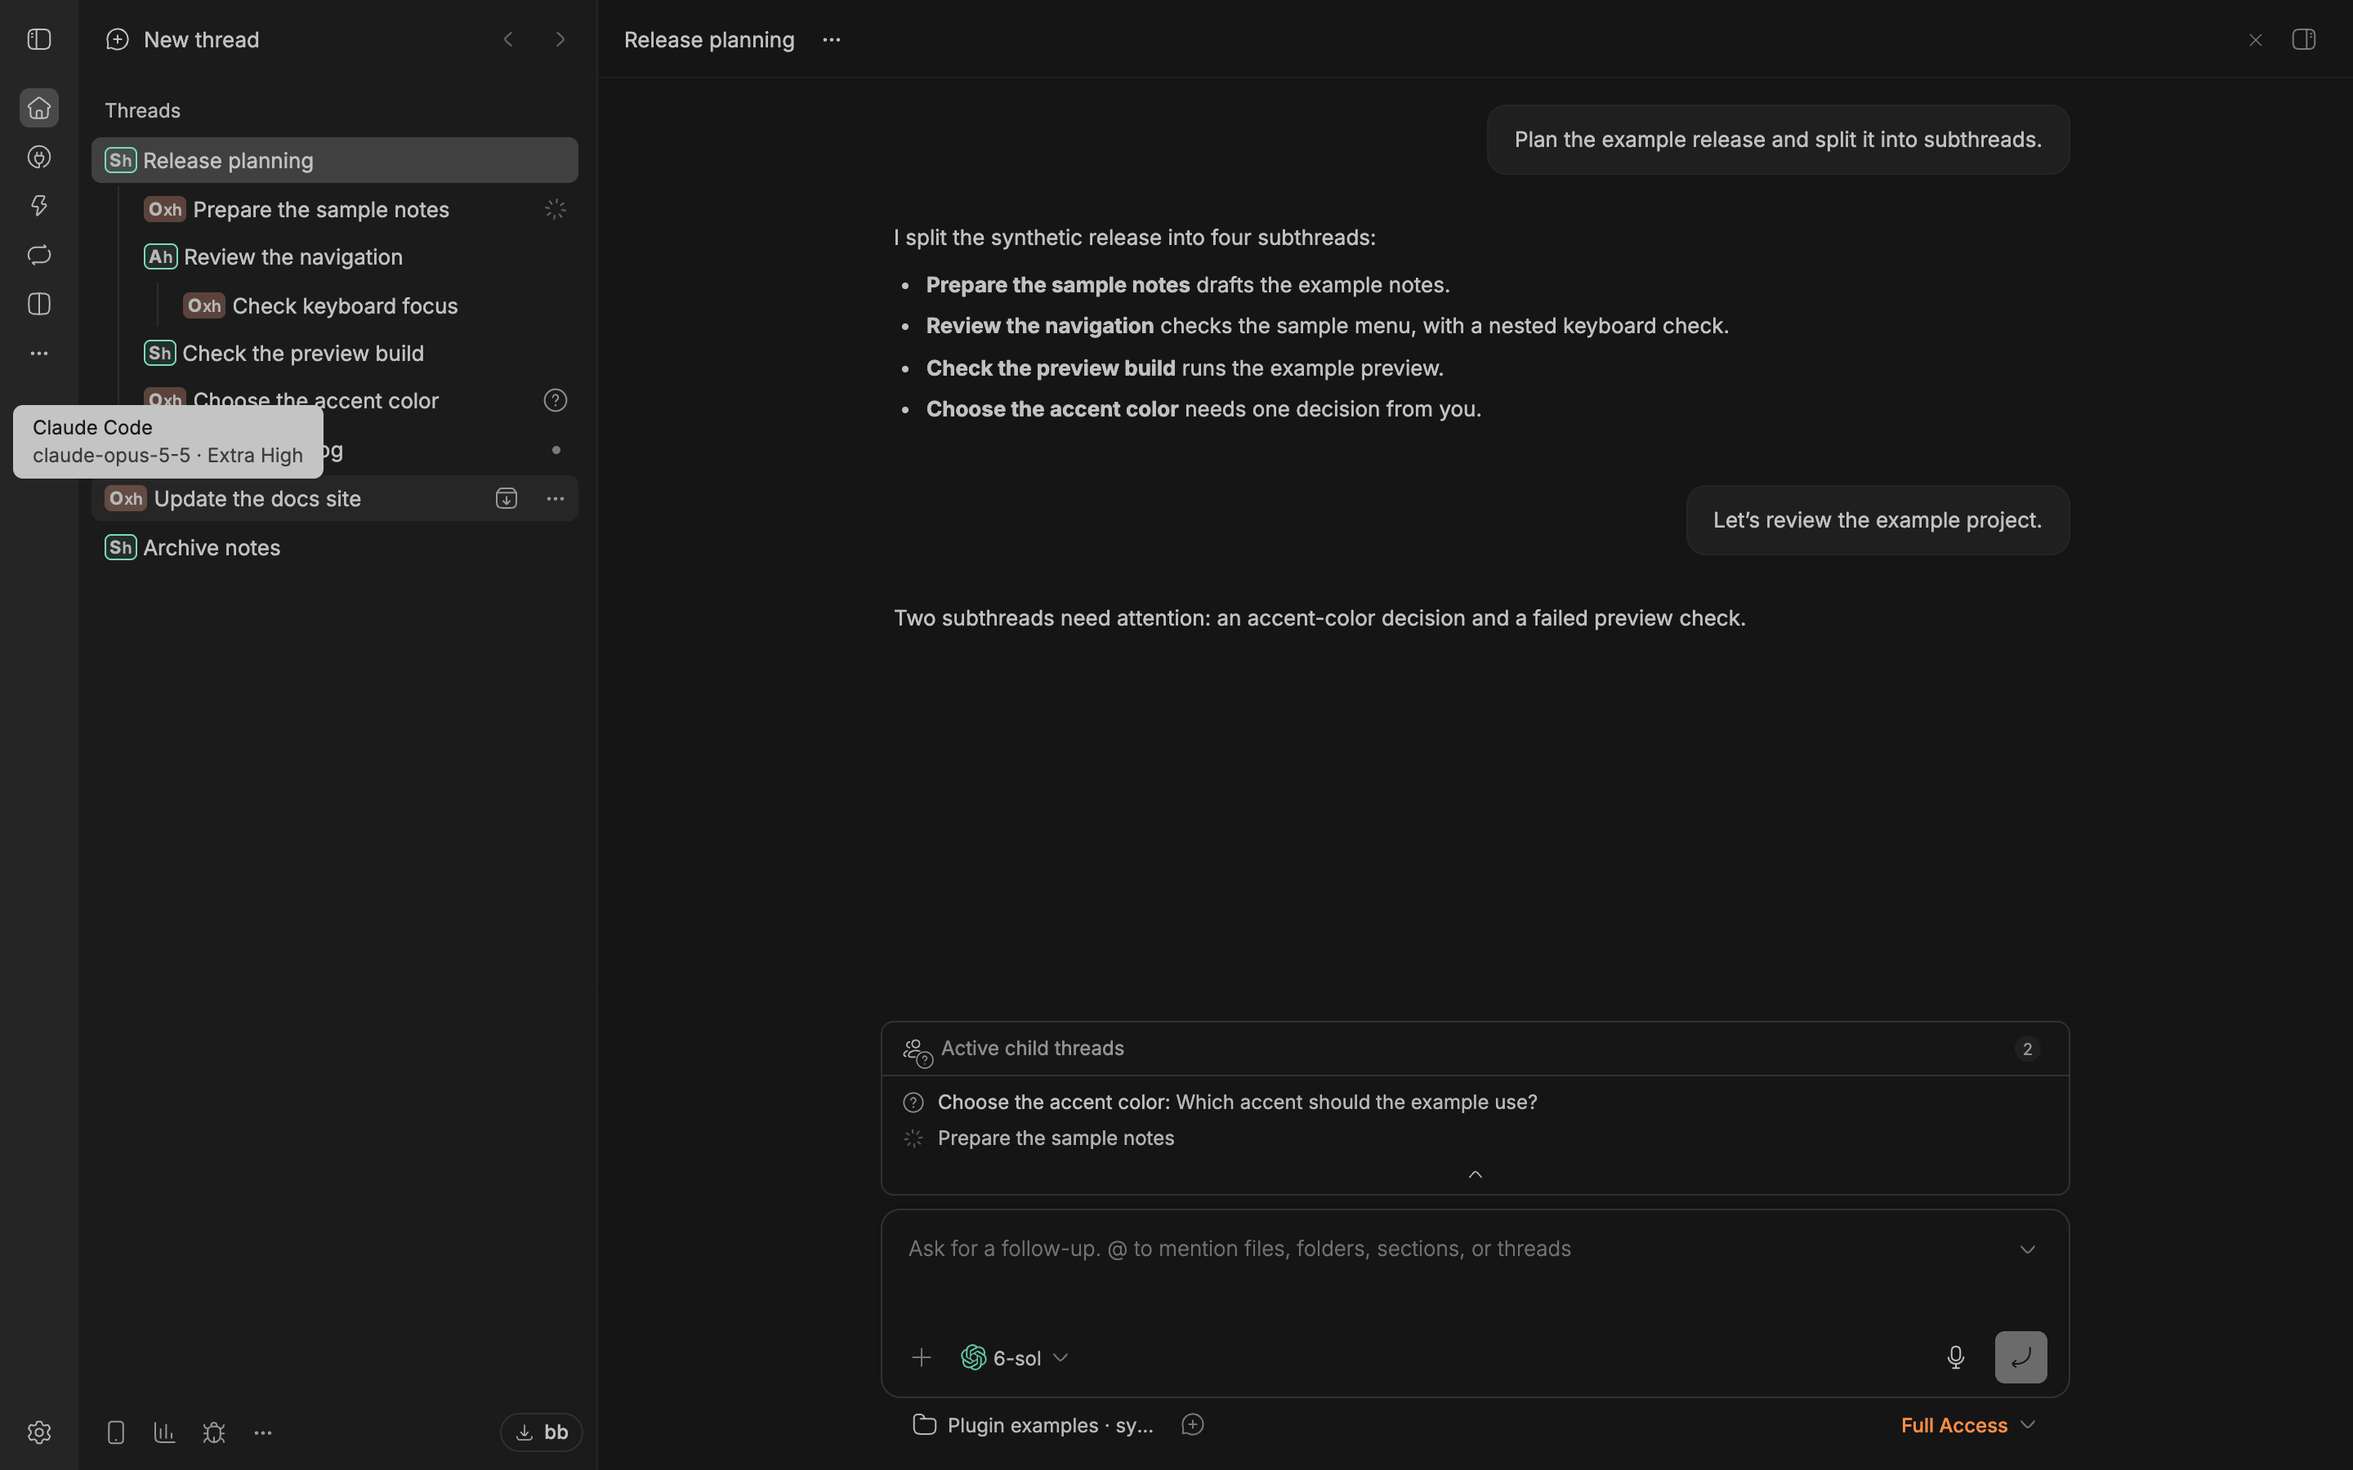
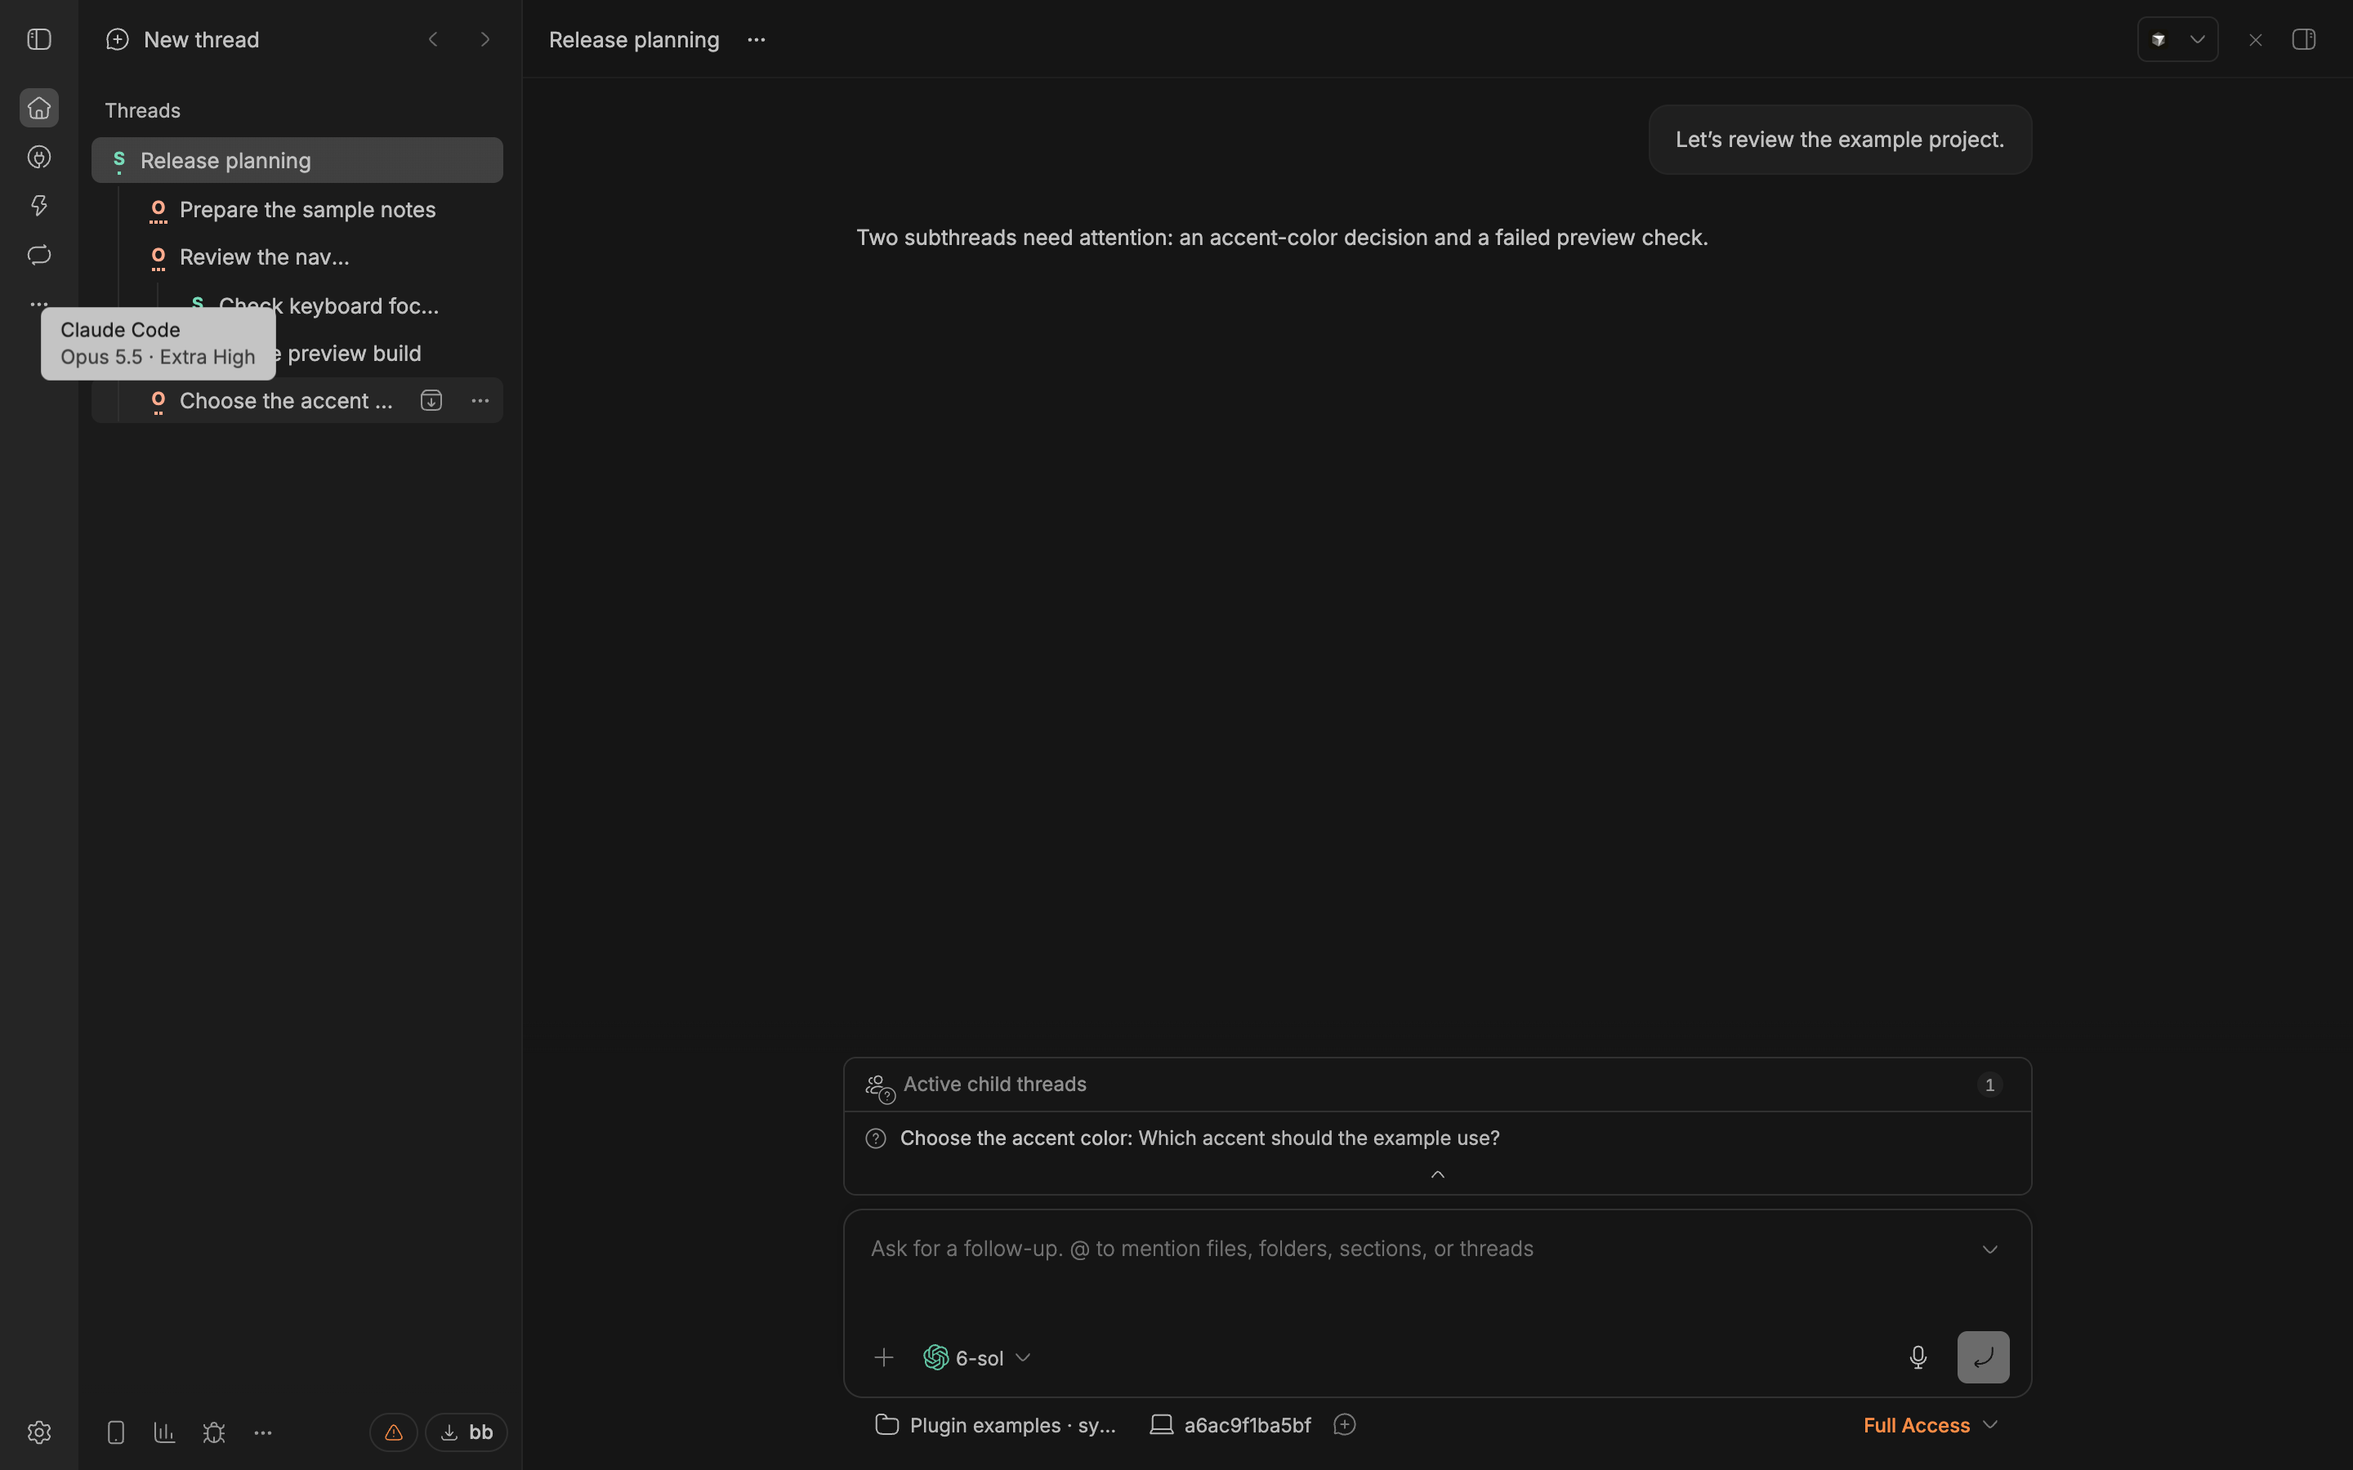
Refine model badges with compact effort strokes

diff --git a/app.tsx b/app.tsx
@@ -27,10 +27,16 @@ const CSS = `
 [${BADGE}][data-placement="beside"] { display: inline-flex; align-items: baseline; flex-shrink: 0; margin: 0 6px 0 -2px; padding: 0 4px; border-radius: 4px; font-size: 10.5px; line-height: 16px; background: color-mix(in oklab, var(--muted-foreground) 14%, transparent); }
 [data-sidebar-thread-provider]:has(> [${BADGE}][data-placement="tile"]) { width: auto; min-width: 18px; margin-right: 4px; justify-content: flex-start; }
 [data-sidebar-thread-provider]:has(> [${BADGE}][data-placement="tile"]) > :not([${BADGE}]) { display: none; }
-[${BADGE}][data-placement="tile"] { display: inline-flex; align-items: baseline; justify-content: center; min-width: 18px; padding: 0 3px; border-radius: calc(var(--radius) - 4px); font-size: var(--text-2xs); line-height: 16px; font-weight: 600; letter-spacing: -.02em; --tile-color: light-dark(oklch(from var(--tile) .45 min(calc(c * var(--pbm-chroma-scale)), var(--pbm-chroma-cap)) h), oklch(from var(--tile) .82 min(calc(c * var(--pbm-chroma-scale)), var(--pbm-chroma-cap)) h)); }
+[${BADGE}][data-placement="tile"] { --effort-width: 0px; position: relative; display: inline-flex; align-items: baseline; justify-content: center; width: 18px; padding-bottom: 3px; font-size: var(--text-2xs); line-height: 14px; font-weight: 600; color: light-dark(oklch(from var(--tile) .45 min(calc(c * var(--pbm-chroma-scale)), var(--pbm-chroma-cap)) h), oklch(from var(--tile) .82 min(calc(c * var(--pbm-chroma-scale)), var(--pbm-chroma-cap)) h)); }
 [${BADGE}][data-placement="tile"] b { font-size: 1.1em; font-weight: 700; letter-spacing: 0; color: inherit; }
-[data-sidebar-thread-provider="codex"] > [${BADGE}][data-placement="tile"] { --tile: var(--pbm-brand-codex); box-shadow: inset 0 0 0 1px var(--tile-color); background: color-mix(in oklch, var(--tile-color) 10%, transparent); }
-[data-sidebar-thread-provider="claude-code"] > [${BADGE}][data-placement="tile"] { --tile: var(--pbm-brand-claude-code); background: color-mix(in oklch, var(--tile-color) 28%, transparent); }
+[${BADGE}][data-placement="tile"] b + span { display: none; }
+[${BADGE}][data-placement="tile"]::after { content: ""; position: absolute; bottom: 0; left: 50%; transform: translateX(-50%); height: 2px; width: var(--effort-width); background: repeating-linear-gradient(to right, currentColor 0 2px, transparent 2px 3px); }
+[${BADGE}][data-effort="h"] { --effort-width: 2px; }
+[${BADGE}][data-effort="xh"] { --effort-width: 5px; }
+[${BADGE}][data-effort="max"] { --effort-width: 8px; }
+[${BADGE}]:is([data-effort="u"], [data-effort="uc"]) { --effort-width: 11px; }
+[data-sidebar-thread-provider="codex"] > [${BADGE}][data-placement="tile"] { --tile: var(--pbm-brand-codex); }
+[data-sidebar-thread-provider="claude-code"] > [${BADGE}][data-placement="tile"] { --tile: var(--pbm-brand-claude-code); }
 [${TIP}] { margin-top: 1px; opacity: .8; }
 `;
 
@@ -133,6 +139,7 @@ function ModelEffortBadges() {
       }
       el.dataset.placement = placement;
       el.dataset.thread = threadId;
+      el.dataset.effort = badge.effort;
       el.dataset.tooltip = badge.tooltip;
       const [model, effort, description] = el.children;
       setText(model!, badge.model);

diff --git a/README.md b/README.md
@@ -1,10 +1,10 @@
 # Model & Effort Badges
 
-See the model family and reasoning effort for each BB thread without opening its composer. A compact code sits at the provider logo; hover for the full name and effort. The badge describes the settings for the next turn. Provider color and style require the separate True Colors plugin.
+See the model family and reasoning effort for each BB thread without opening its composer. A model letter with small effort strokes sits at the provider logo; hover for the full name and effort. The badge describes the settings for the next turn. Provider colors require the separate True Colors plugin.
 
 ![Model and effort badges in BB](assets/badges.png)
 
-*Synthetic example data in BB 0.47.1 with separate [True Colors](https://github.com/ChrBoebel/bb-plugin-provider-brand-marks) 0.1.3 by ChrBoebel. Without it, codes are gray. The tooltip shows a raw model ID because this demo has no provider catalog.*
+*Synthetic example data in BB 0.47.1 with separate [True Colors](https://github.com/ChrBoebel/bb-plugin-provider-brand-marks) 0.1.3 by ChrBoebel. Without it, badges are gray. The tooltip preserves the full model name and exact effort.*
 
 ## Install
 
@@ -13,7 +13,7 @@ Requires BB 0.46.1 and SDK 0.6.49 or later. The published version was tested on 
 Open BB’s **Community Plugins → Model & Effort Badges → Install**, or run `bb plugin install model-effort-badges`. For npm:
 
 ```sh
-bb plugin install npm:bb-plugin-model-effort-badges@0.7.0 --yes
+bb plugin install npm:bb-plugin-model-effort-badges@0.7.1 --yes
 ```
 
 For a tracking source, use `bb plugin update model-effort-badges --yes`. To change a pinned version or installation source, save the plugin settings, remove its registration, install the desired version, then restore those settings individually. Removal resets settings.
@@ -24,18 +24,20 @@ Existing users: [migration reference](MIGRATION.md).
 
 ## Try it
 
-Compare the codes when several threads use different models or effort levels. Hover a provider logo to check the full name before sending the next turn. For long thread titles, choose **Under the logo** in the plugin settings to keep their width.
+Compare the badges when several threads use different models or effort levels. Hover a provider logo to check the full name before sending the next turn. For long thread titles, choose **Under the logo** in the plugin settings to keep their width.
 
 ## Read the badges
 
 ```
-[Ah]  BB                Ah   = GPT-6-Astra, High      (Codex; outlined with True Colors)
-[Ouc] BB: model and …   Ouc  = Opus 5.5, Ultracode    (Claude; filled with True Colors)
+ A    BB                A + one stroke = GPT-6-Astra, High
+ ━
+ O    BB: model and …    O + four strokes = Opus 5.5, Ultracode
+ ━ ━ ━ ━
 ```
 
 - **Letter:** the model family taken from the provider catalog name, without the vendor prefix. For example, Astra, Sol and Luna for Codex; Opus, Sonnet, Haiku and Fable for Claude.
-- **Effort:** `0` none, `min` minimal, `l` low, `m` medium, `h` high, `xh` extra high, `max`, `u` ultra, `uc` ultracode. Any other level shows its first two letters.
-- **Color:** the tile takes its hue from True Colors (`--pbm-brand-codex`, `--pbm-brand-claude-code` and its chroma settings). Codex is outlined, Claude is filled. Without True Colors, the letters remain gray but the colored outline and fill do not render. Two providers can show the same code (for example `Sh`); use the full-name tooltip to distinguish them.
+- **Effort:** no strokes for none/minimal/low/medium, one for high, two for extra high, three for max, four for ultra/ultracode. Hover and screen readers retain the exact level. The `under` and `beside` placements keep the text codes: `0`, `min`, `l`, `m`, `h`, `xh`, `max`, `u`, `uc`; other levels use their first two letters.
+- **Color:** the model letter and effort strokes take their hue from True Colors (`--pbm-brand-codex`, `--pbm-brand-claude-code` and its chroma settings). Without it, badges remain gray. Two providers can show the same model letter; use the full-name tooltip to distinguish them.
 - **Hover:** hover the logo for the full model name and effort. BB's own provider tooltip gets a second line, for example `GPT-6-Astra · High`.
 - **Screen readers:** the thread link reads `GPT-6-Astra, High reasoning effort` as its description.
 - **Unknown:** `?` means BB has no model for the thread. The plugin never guesses one from the provider.
@@ -52,7 +54,7 @@ A message sent to a thread that is already running does not change `updatedAt`, 
 
 `Badge placement` (Settings → Installed plugins → Model & Effort Badges):
 
-- `tile` (default): Codex and Claude Code rows show a 16px-high tile instead of the logo. The tile is as wide as its code plus padding, and the title starts 4px after it, so a longer code such as `Sxh` or `Omax` moves the title further right. The tile never reaches into the tree indent, so it cannot touch guides or chevrons. Other providers keep the logo with the caption under it.
+- `tile` (default): Codex and Claude Code rows show an 18px-wide model letter and effort strokes instead of the logo. Its 17px height fits compact 26px rows. Every effort takes the same width; the title starts 4px after it. The badge stays inside the provider slot, clear of tree guides and chevrons. Other providers keep the logo with the caption under it.
 - `under`: a 9px caption under every provider logo. Title width does not change.
 - `beside`: a 10.5px chip next to every provider logo. It is easier to read but takes about three title characters.
 

diff --git a/PLUGIN_OVERVIEW.md b/PLUGIN_OVERVIEW.md
@@ -1,13 +1,13 @@
 # Model & Effort Badges
 
-See each BB thread’s model family and reasoning effort without opening its composer. A compact code appears at the provider logo. Hover for the full model name and effort before sending the next turn.
+See each BB thread’s model family and reasoning effort without opening its composer. A model letter and small effort strokes appear at the provider logo. Hover for the full model name and effort before sending the next turn.
 
-![Model and effort codes in BB](assets/badges.png)
+![Model and effort badges in BB](assets/badges.png)
 
-*Synthetic example data in BB 0.47.1 with separate [True Colors](https://github.com/ChrBoebel/bb-plugin-provider-brand-marks) 0.1.3 by ChrBoebel. Without it, codes are gray. The tooltip shows a raw model ID because this demo has no provider catalog.*
+*Synthetic example data in BB 0.47.1 with separate [True Colors](https://github.com/ChrBoebel/bb-plugin-provider-brand-marks) 0.1.3 by ChrBoebel. Without it, badges are gray. The tooltip preserves the full model name and exact effort.*
 
 Compare several threads at a glance. Choose a tile, a caption under the logo, or a chip beside it; tile is the default for Codex and Claude Code. Use the caption to preserve long titles. Badges show the next turn’s settings; a switch sent to an already running thread appears when it goes idle.
 
-The separate True Colors plugin supplies provider hues and outline/fill styles. Without it, codes remain gray and different providers can show the same code; use the full-name tooltip to distinguish them.
+Default badges have no box or fill: one bottom stroke means high effort, two extra high, three max, and four ultra/ultracode. Lower efforts have no strokes. Hover retains the exact level. The separate True Colors plugin supplies provider hues; without it, badges are gray.
 
-Declared minimum: BB 0.46.1 / SDK 0.6.49; tested on BB 0.47.1. Full-trust plugin using experimental APIs and the standard sidebar. Install `npm:bb-plugin-model-effort-badges@0.7.0` in BB. Stores no server data and adds no telemetry; BB and providers have their own data handling. [README](https://github.com/neoromantic/bb-plugin-model-effort-badges#readme) · [Migration reference](MIGRATION.md).
+Declared minimum: BB 0.46.1 / SDK 0.6.49; tested on BB 0.47.1. Full-trust plugin using experimental APIs and the standard sidebar. Install `npm:bb-plugin-model-effort-badges@0.7.1` in BB. Stores no server data and adds no telemetry; BB and providers have their own data handling. [README](https://github.com/neoromantic/bb-plugin-model-effort-badges#readme) · [Migration reference](MIGRATION.md).

diff --git a/assets/README.md b/assets/README.md
@@ -1,7 +1,7 @@
 # Demo provenance
 
-`badges.png` is an unmodified screenshot of official BB 0.47.1, captured on 31 October 2026 in an isolated disposable runtime. All titles, messages and states are synthetic. No provider credentials or real agent runs were used.
+`badges.png` is an unmodified screenshot of official BB 0.47.1, captured on 7 November 2026 in an isolated disposable runtime. All titles, messages and states are synthetic. No provider credentials or real agent runs were used.
 
-Model & Effort Badges 0.7.0 uses public release commit [`ae642c254ade4bf09056042a7f0d267948afdc61`](https://github.com/neoromantic/bb-plugin-model-effort-badges/tree/ae642c254ade4bf09056042a7f0d267948afdc61), with `placement=tile` (default). The provider colors and outline/fill styles require the separate **True Colors** (`provider-brand-marks`) 0.1.3 by **ChrBoebel**, commit [`7a326de2e69b4cff80d2c6fbad9a424dd7dccf73`](https://github.com/ChrBoebel/bb-plugin-provider-brand-marks/tree/7a326de2e69b4cff80d2c6fbad9a424dd7dccf73). Without it, codes are gray and do not identify providers.
+Model & Effort Badges 0.7.1 uses this release’s source, with `placement=tile` (default). Provider colors come from the separate **True Colors** (`provider-brand-marks`) 0.1.3 by **ChrBoebel**, commit [`7a326de2e69b4cff80d2c6fbad9a424dd7dccf73`](https://github.com/ChrBoebel/bb-plugin-provider-brand-marks/tree/7a326de2e69b4cff80d2c6fbad9a424dd7dccf73). Without it, badges are gray.
 
-Subthread Columns 0.1.0 was installed with columns off; Responsibilities was absent. The real tooltip shows `claude-opus-5-5 · Extra High`: this demo has no provider model catalog, so it uses the raw model ID. Dark theme, 1440×900 CSS pixels at 2× scale; PNG 2880×1800. No crop, resize or UI redraw.
+The six visible rows use high, ultracode, max, medium, high and extra-high effort, in order. The real tooltip reads `Opus 5.5 · Extra High`, using the installed provider catalog. Responsibilities and Subthread Columns were absent. Default dark theme, 1440×900 CSS pixels at 2× scale; PNG 2880×1800. No crop, resize or UI redraw.
